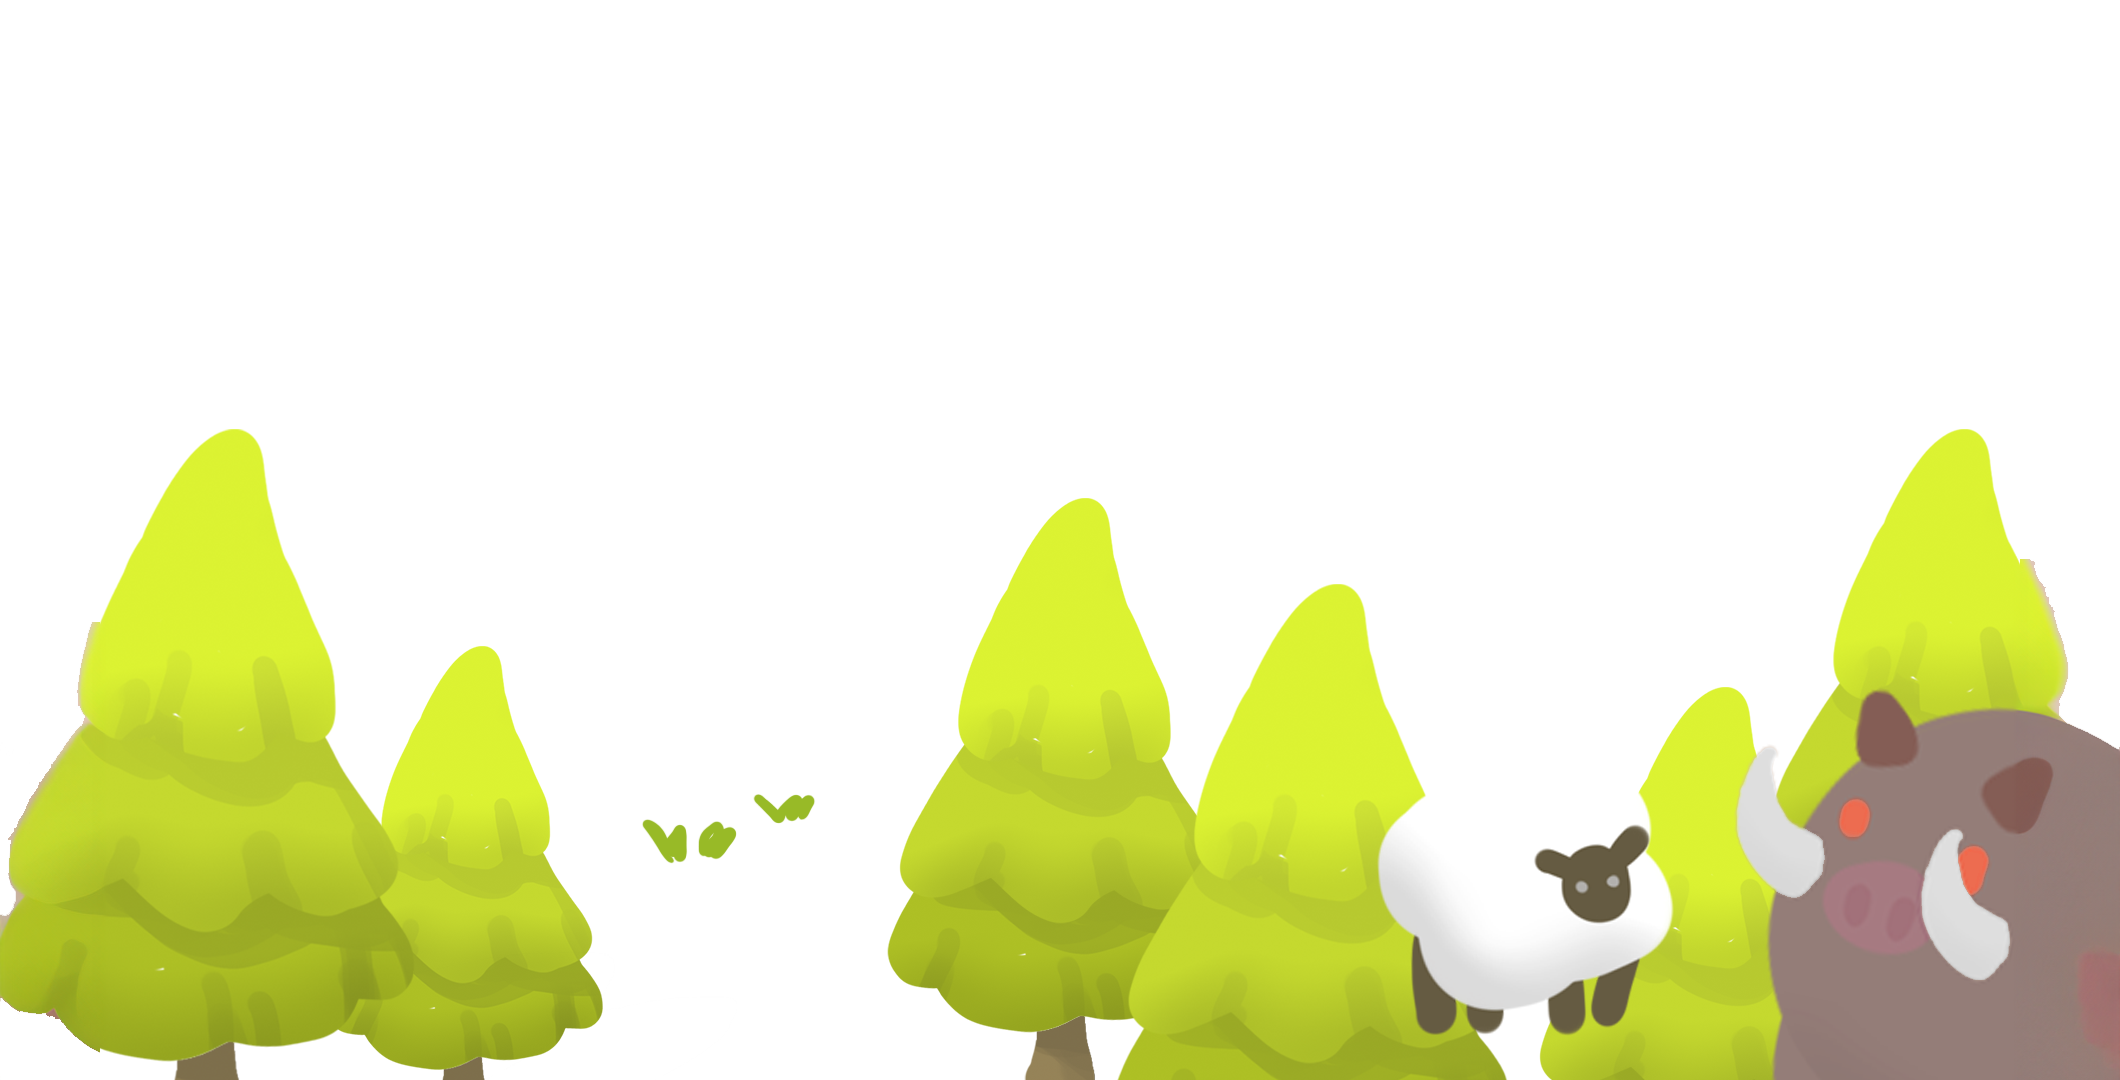
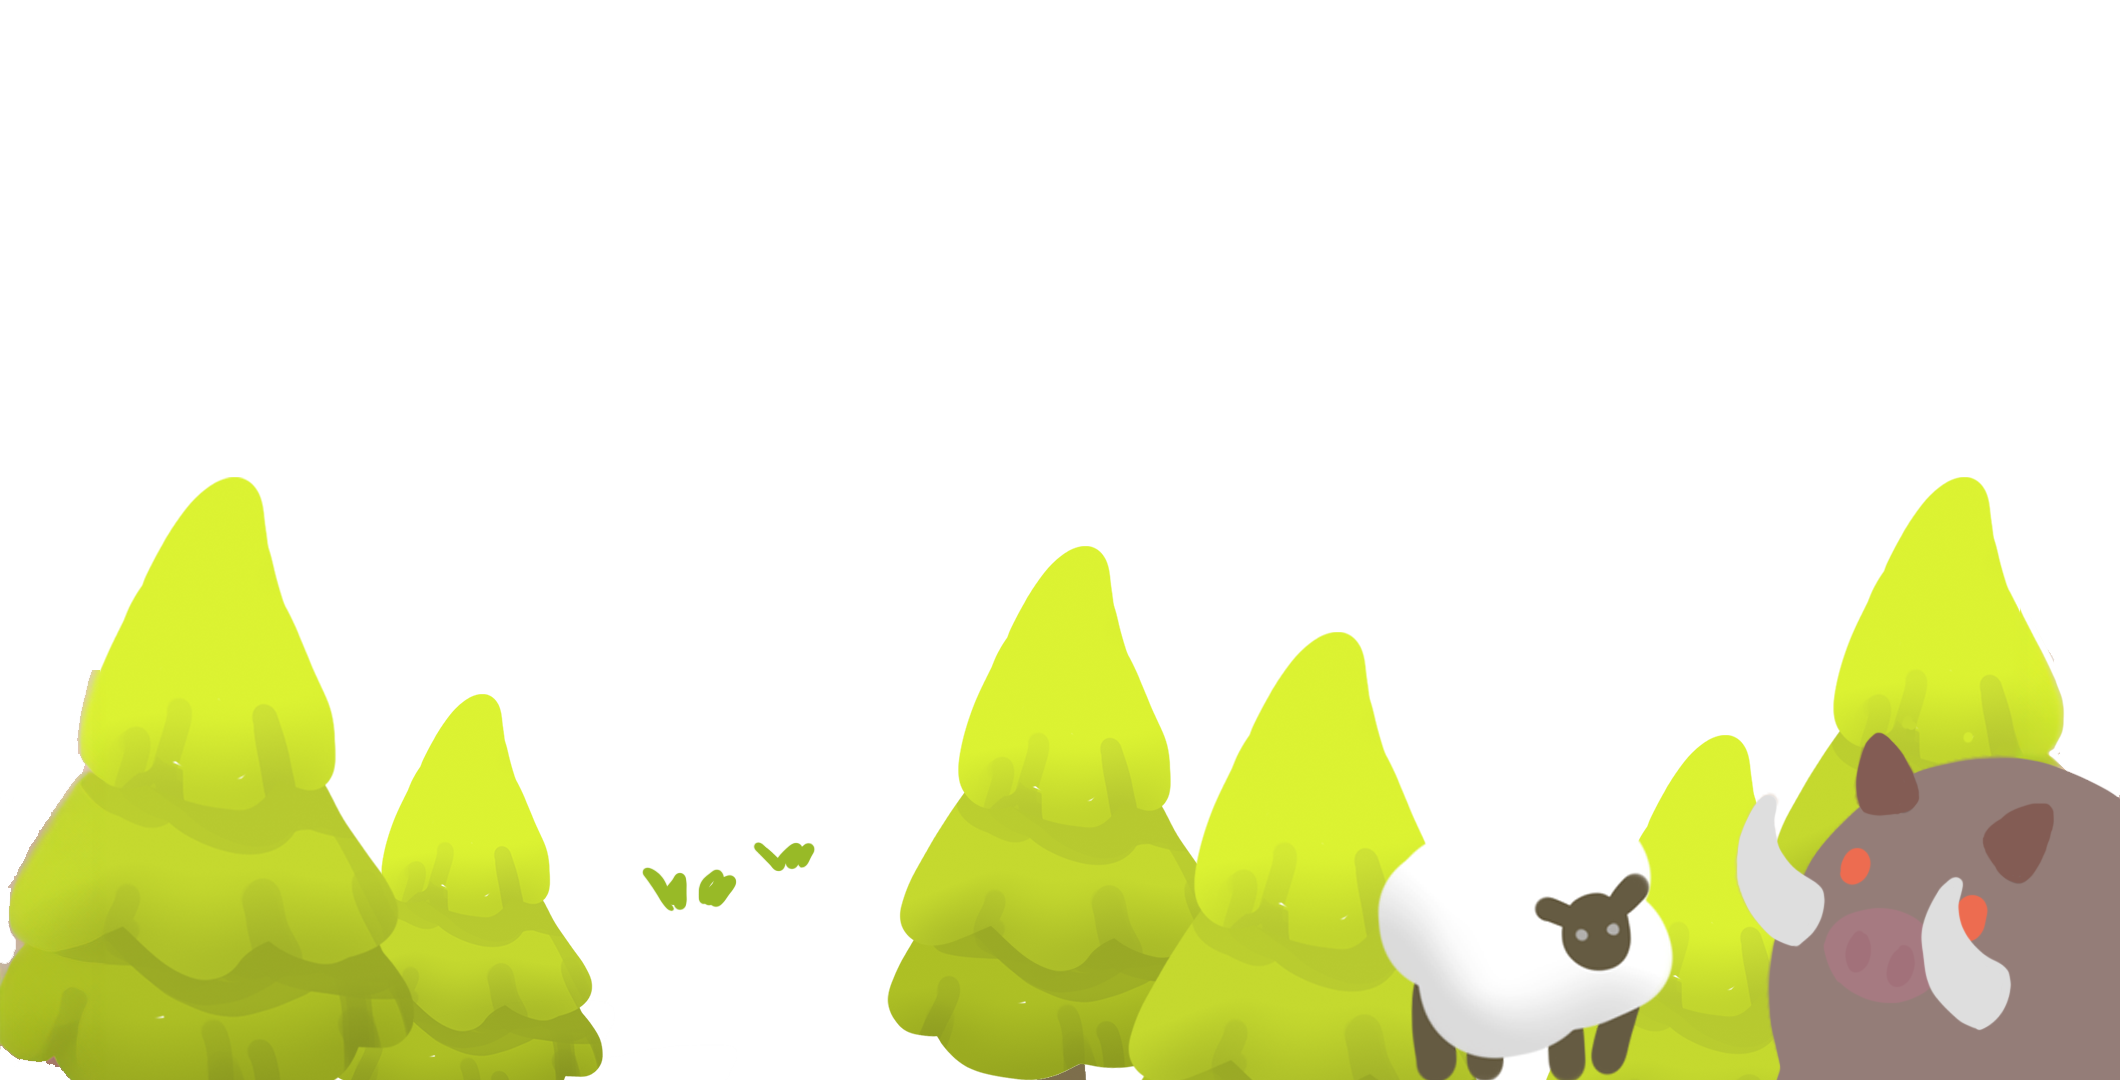
Edited boar, lowered parallax on smaller screens

Changed region(s): [[0.0, 0.3972, 1.0, 1.0], [0.1245, 0.4583, 0.1557, 0.7028], [0.8094, 0.9167, 0.8406, 1.0]]

diff --git a/src/components/interactive/MassiveMultiplayer.js b/src/components/interactive/MassiveMultiplayer.js
@@ -1,5 +1,6 @@
 import React, { useState, useRef, useEffect } from 'react'
 import { useStaticQuery, graphql } from 'gatsby'
+import { GatsbyImage, getImage } from 'gatsby-plugin-image'
 
 import HoverSpeechBubble from "../interactive/HoverSpeechBubble"
 
@@ -196,7 +197,7 @@ const MassiveMultiplayer = ({ translateX, translateY }) => {
                     xmlns="http://www.w3.org/2000/svg"
                 >
                         <image
-                            href={data.cloudFiles.nodes[0].childImageSharp.gatsbyImageData.images.fallback.src}
+                            href={returnImageData(data.cloudFiles.nodes, "0_cloud_BG.png").gatsbyImageData.images.fallback.src}
                             x={550}
                             y={100}
                             width={512}
@@ -209,48 +210,46 @@ const MassiveMultiplayer = ({ translateX, translateY }) => {
                 translateY={multiplyValues(translateY, 0.5)}
                 className="absolute bottom-0 left-0 right-0"
             >
-            <svg
-                width="100%"
-                viewBox="0 0 1920 1080"
-                xmlns="http://www.w3.org/2000/svg"
-            >
-                <image
-                    href={data.cloudFiles.nodes[2].childImageSharp.gatsbyImageData.images.fallback.src}
-                    x={650}
-                    y={300}
-                    width={512}
-                    height={512}
-                ></image>
-            </svg>
+                <svg
+                    width="100%"
+                    viewBox="0 0 1920 1080"
+                    xmlns="http://www.w3.org/2000/svg"
+                >
+                    <image
+                        href={returnImageData(data.cloudFiles.nodes, "1_cloud_MG.png").gatsbyImageData.images.fallback.src}
+                        x={650}
+                        y={300}
+                        width={512}
+                        height={512}
+                    ></image>
+                </svg>
             </Parallax>
             <Parallax
                 translateX={multiplyValues(translateX, -3)}
                 translateY={multiplyValues(translateY, 0.5)}
                 className="absolute bottom-0 left-0 right-0"
             >
-            <svg
-                width="100%"
-                viewBox="0 0 1920 1080"
-                xmlns="http://www.w3.org/2000/svg"
-            >
-                <image
-                    href={data.cloudFiles.nodes[1].childImageSharp.gatsbyImageData.images.fallback.src}
-                    x={450}
-                    y={400}
-                    width={1024}
-                    height={1024}
-                ></image>
-            </svg>
+                <svg
+                    width="100%"
+                    viewBox="0 0 1920 1080"
+                    xmlns="http://www.w3.org/2000/svg"
+                >
+                    <image
+                        href={returnImageData(data.cloudFiles.nodes, "2_cloud_FG.png").gatsbyImageData.images.fallback.src}
+                        x={450}
+                        y={400}
+                        width={1024}
+                        height={1024}
+                    ></image>
+                </svg>
             </Parallax>
-
-
             <svg
                 width="100%"
                 viewBox="0 0 1920 1080"
                 xmlns="http://www.w3.org/2000/svg"
                 className="absolute bottom-0 left-0 right-0"
             >
-            <HoverSpeechBubble
+                <HoverSpeechBubble
                     src={getSrcForSpeechBubble(0)}
                     bubble={{
                         width: 256,
@@ -304,7 +303,7 @@ const MassiveMultiplayer = ({ translateX, translateY }) => {
                 />
             </svg>
 
-            <div className="absolute bottom-0 translate-y-[-100%] left-0 text-lg p-8 m-8 flex flex-col text-left uppercase bg-[rgba(0,0,0,0.1)] rounded-md z-50">
+            <div className="absolute bottom-[10vh] left-0 text-lg p-8 m-8 flex flex-col text-left uppercase bg-[rgba(0,0,0,0.1)] rounded-md z-50">
                 {imageVisibleArray.map(imageStringId => (
                     <label key={imageStringId} className="cursor-pointer">
                         <input
@@ -319,6 +318,17 @@ const MassiveMultiplayer = ({ translateX, translateY }) => {
         </div>
     );
 
+    // Functions
+
+    function returnImageData(array, string) {
+        for (let i = 0; i < array.length; i++) {
+            if (array[i].relativePath.includes(string)) {
+                return array[i].childImageSharp;
+            }
+        }
+        return null;
+    }
+    
     function multiplyValues(arr, num) {
         const doubledArr = [];
         for (const value of arr) {

diff --git a/src/components/SimpleSection.js b/src/components/SimpleSection.js
@@ -185,6 +185,7 @@ const SimpleSection = ({ props, index, children }) => {
             static: [
                 { url: 'sections/new-worlds/worlds_BG2.png', zLevel: -1 },
                 { url: 'sections/new-worlds/worlds_BG.png', zLevel: -0.5 },
+                { url: 'sections/new-worlds/FullSizeTerraforming_Lower_static.png', zLevel: 1, isWider: true },
             ],
             interactive: [
 
@@ -225,12 +226,6 @@ const SimpleSection = ({ props, index, children }) => {
     let translateX = ['-50px', '50px'];
     let translateY = ['-100px', '100px'];
 
-    // Build error if this is uncommented
-    /*if (window.innerWidth <= 768) {
-        translateX = ['-10px', '10px'];
-        translateY = ['-20px', '20px'];
-    }*/
-
     //Styles
 
     const orderStyle = {
@@ -257,6 +252,32 @@ const SimpleSection = ({ props, index, children }) => {
         }
     }
 
+    const [windowWidth, setWindowWidth] = useState(window.innerWidth);
+
+    useEffect(() => {
+        const handleResize = () => {
+            setWindowWidth(window.innerWidth);
+        };
+
+            window.addEventListener('resize', handleResize);
+
+        return () => {
+            window.removeEventListener('resize', handleResize);
+        };
+    }, []);
+    if (windowWidth <= 768) {
+        translateX = multiplyValues(translateX, 1/5);
+        translateY = multiplyValues(translateY, 1/5);
+    }
+
+
+    
+    /*<div className="absolute bottom-5 md:bottom-0 left-0 right-0 z-0">
+        <video autoPlay loop muted className="w-full" width="1920" height="1080">
+            <source src={Terraforming_Background} type="video/mp4" />
+        </video>
+    </div>*/
+
     return (
         <section className="relative flex flex-col justify-center items-center pb-64 text-center z-10" style={fullHeightStyle}>
 
@@ -264,21 +285,6 @@ const SimpleSection = ({ props, index, children }) => {
             <div className="w-full md:max-w-[1280px] flex p-8 z-20" style={orderStyle}>
                 {children}
             </div>
-            
-            {index === 2 && (
-                <>
-                    <div className="absolute bottom-5 md:bottom-0 left-0 right-0 z-0">
-                        <video autoPlay loop muted className="w-full" width="1920" height="1080">
-                            <source src={Terraforming_Background} type="video/mp4" />
-                        </video>
-                    </div>
-                    <AppleIsland />
-                </>
-            )}
-
-            {index === 3 && (
-                <MassiveMultiplayer translateX={translateX} translateY={translateY} />
-            )}
 
             {/* Interactive */}
             {interactiveToDraw.length > 0 ? (
@@ -346,6 +352,14 @@ const SimpleSection = ({ props, index, children }) => {
                     )}
                 </>
             ))}
+            
+            {index === 2 && (
+                <AppleIsland />
+            )}
+
+            {index === 3 && (
+                <MassiveMultiplayer translateX={translateX} translateY={translateY} />
+            )}
 
             {/* Video 
             {videoToDraw && (

diff --git a/src/components/interactive/AppleIsland.js b/src/components/interactive/AppleIsland.js
@@ -76,8 +76,8 @@ const AppleIsland = () => {
             >
                 <image
                     href={src}
-                    x={1920-720-300}
-                    y={300}
+                    x={1920/2.5}
+                    y={200}
                     width={720}
                     height={720}
                 ></image>
